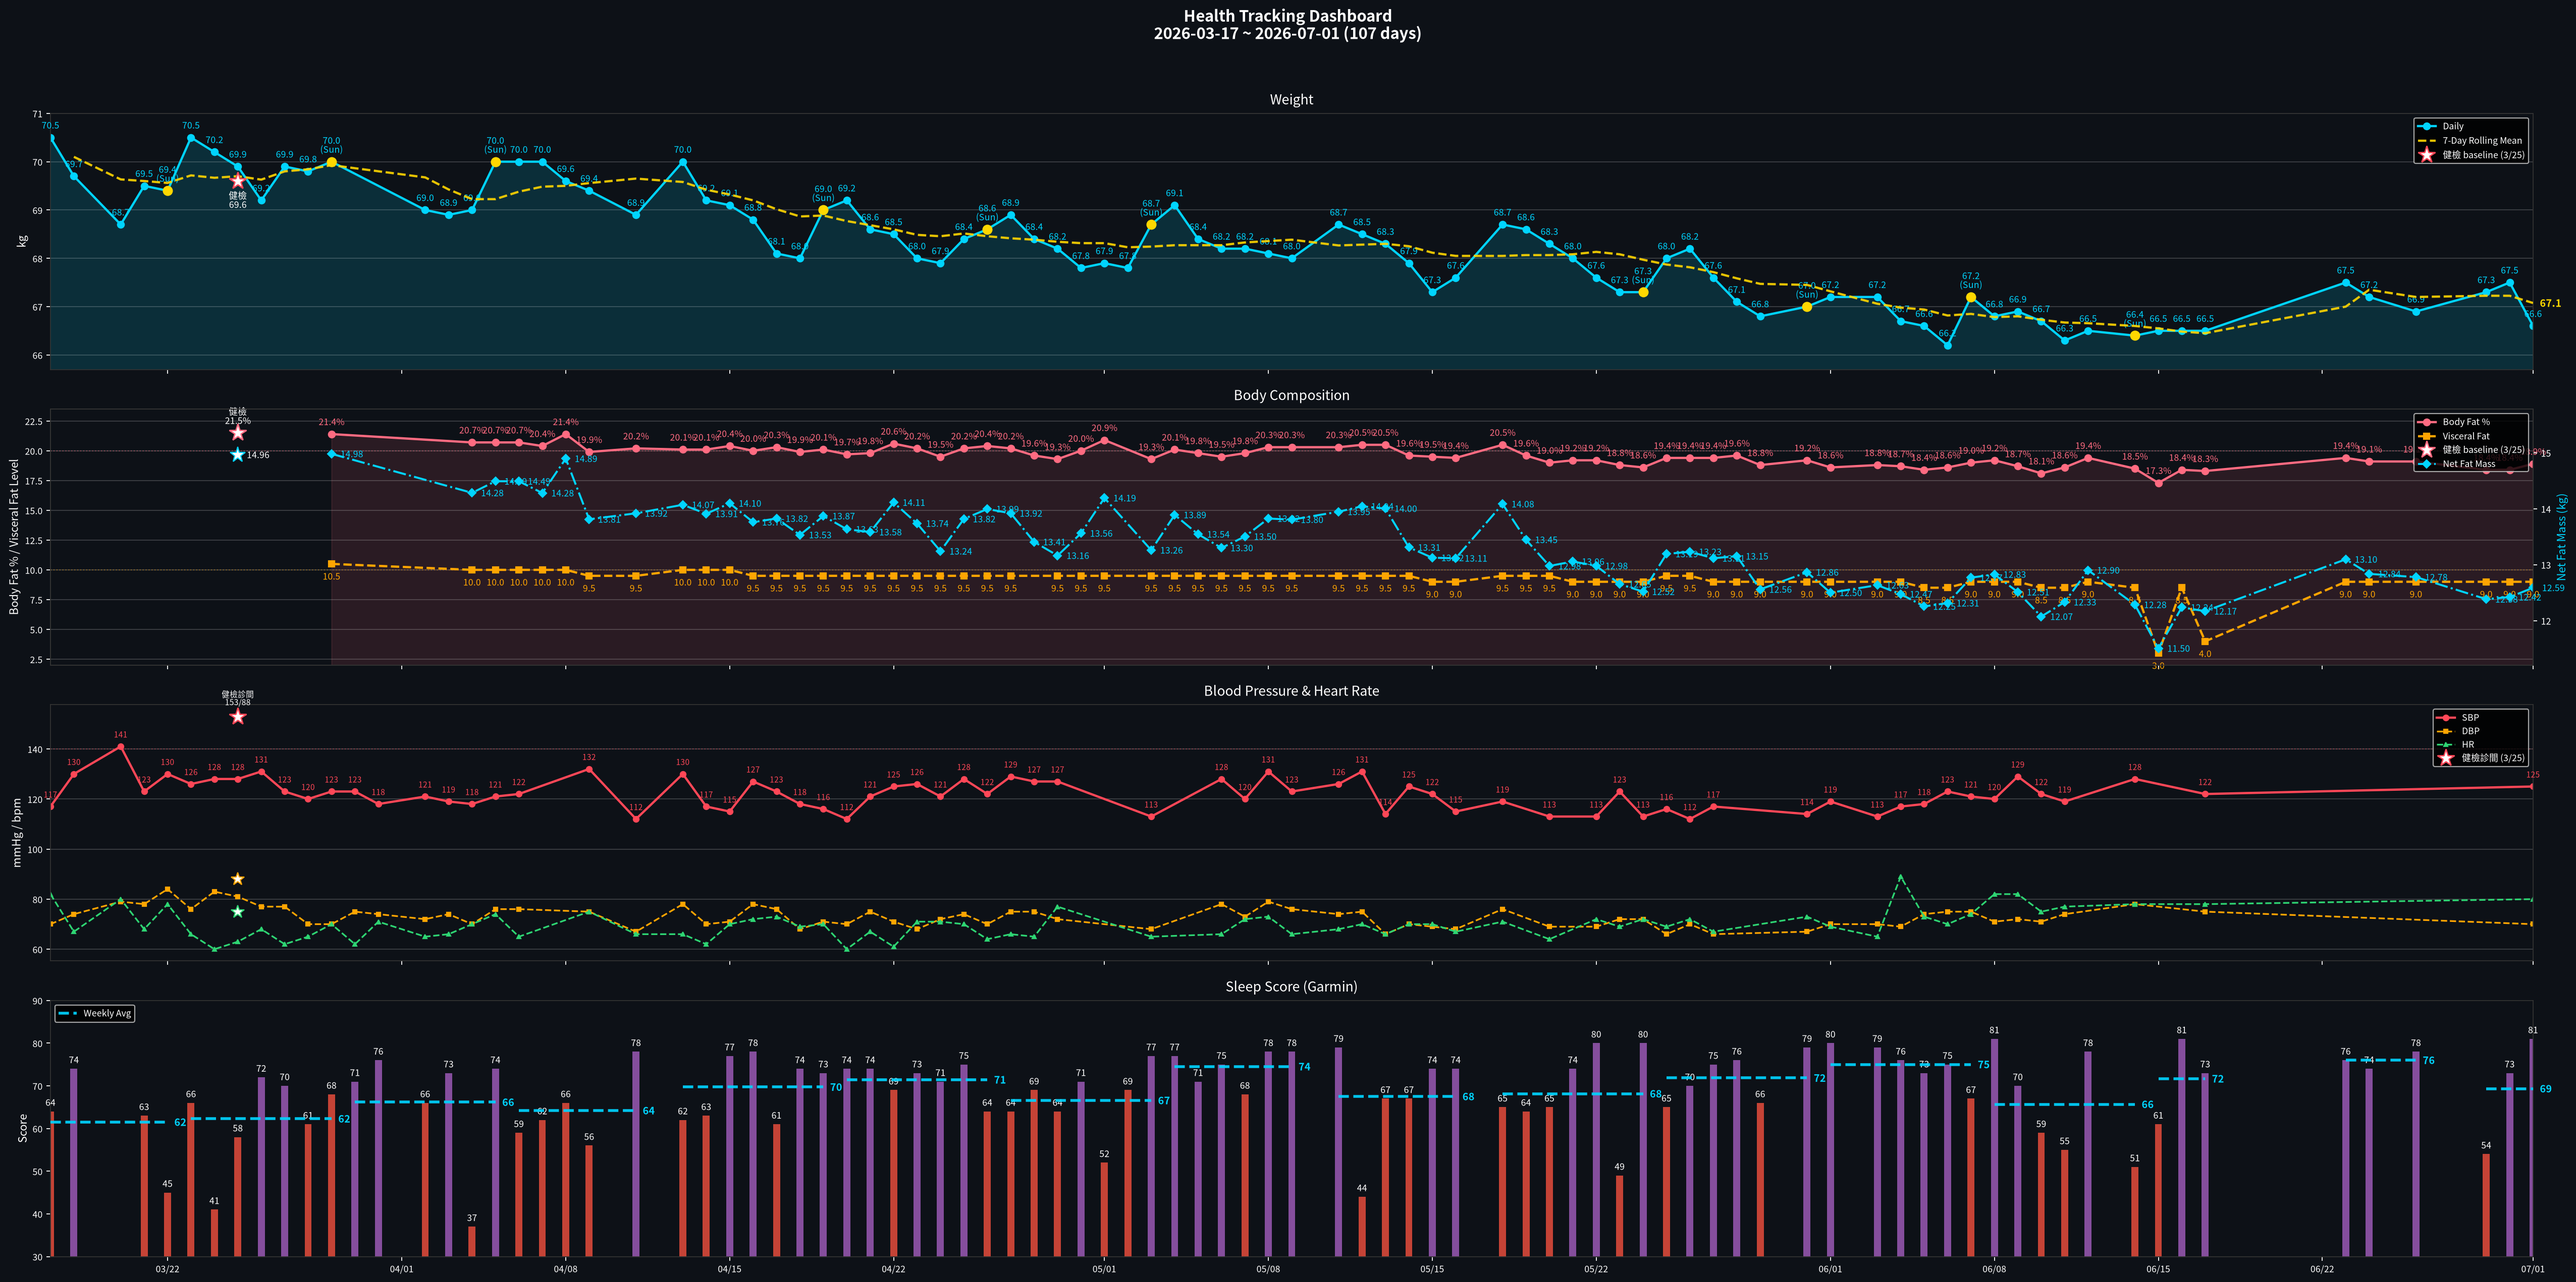
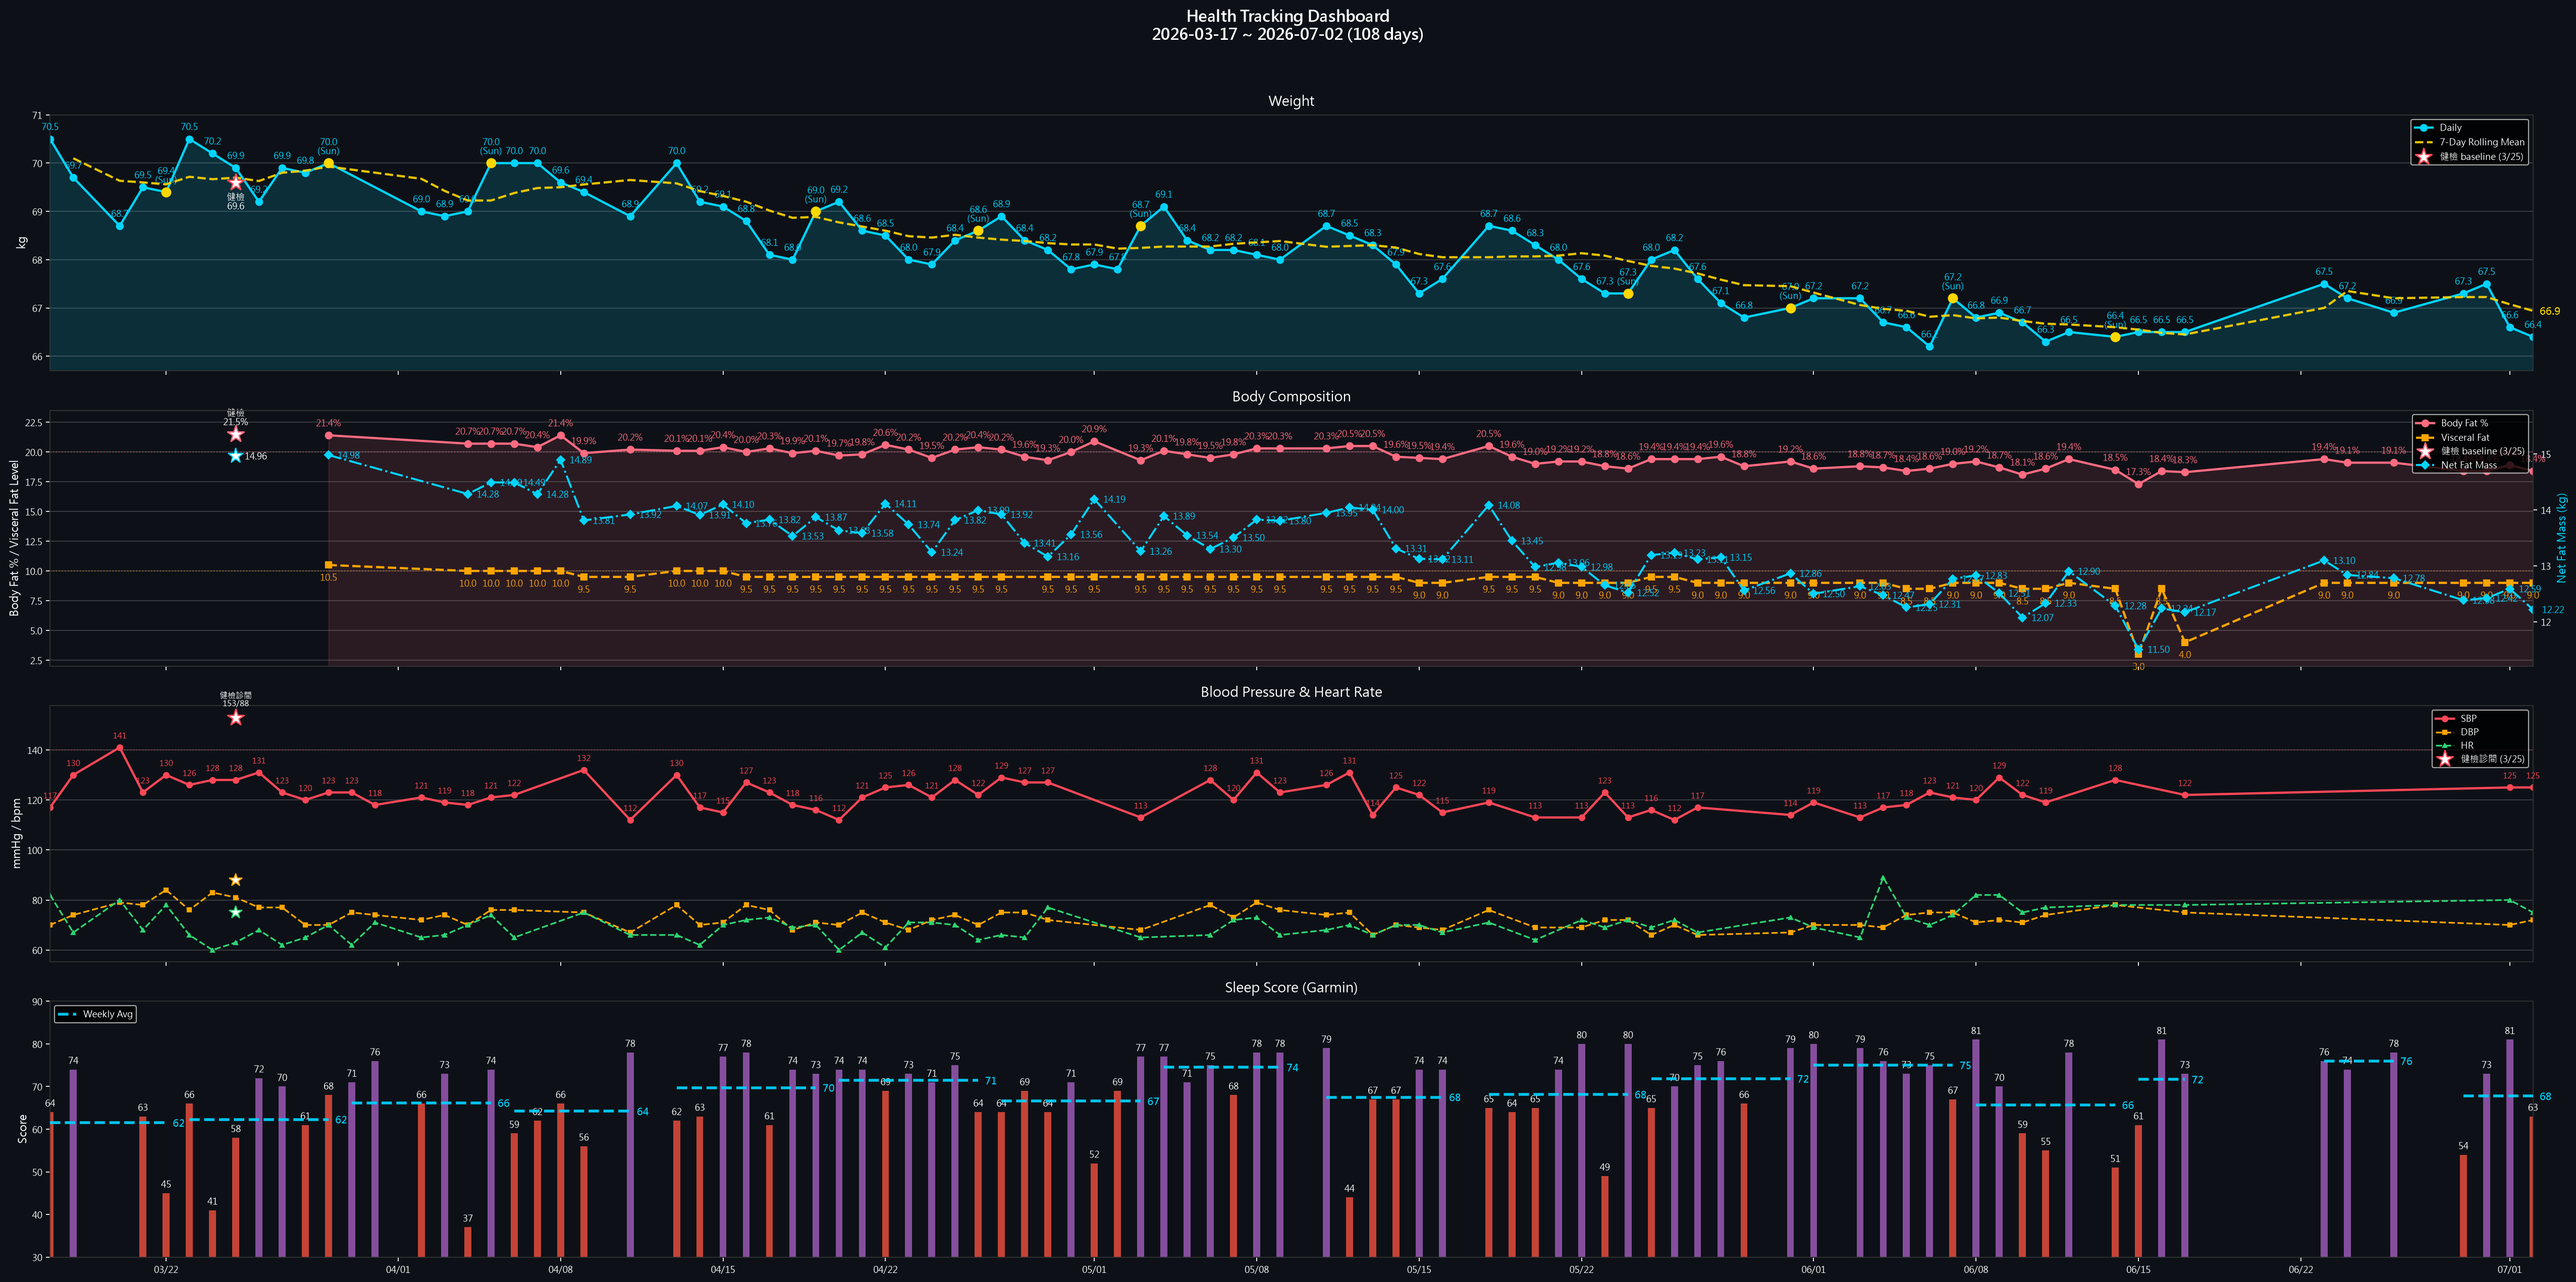
daily 2026-07-02：體重 66.4kg 體脂 18.4% / BP 125-72 / 睡眠 4h14m Score 63
- 昨夜睡眠僅 4h14m（22:15→02:34），Sleep Score 63、恢復感 3、無中途醒
- 昨日飲水 1.65L（<2.0L 警示）、Na/K 0.136 理想、步數 10,598
- 更新 weekly W27、dashboard、data.js

Claude-Session: https://claude.ai/code/session_01MhBbg327WCu9aomhyftvvB

diff --git a/data.js b/data.js
@@ -17,17 +17,17 @@ window.HC_DATA = {
     lede:    { en: "Sleep, BP, lipids, uric acid — one shared metabolic root. Lifestyle stacks first; medication only after lifestyle plateaus.",
                zh: "睡眠、血壓、血脂、尿酸——共享同一個代謝根源。生活方式介入優先，等到效果平台期再考慮藥物。" },
     progressLbl: { en: "Weight progress · 70 → 65 kg", zh: "體重進度 · 70 → 65 公斤" },
-    progressMeta: { en: "Day 107 · 66.2 kg · Sat official (6/6)", zh: "第 107 天 · 66.2 公斤 · 週六正式（6/6）" },
-    startDate: { en: "Start date · Mar 17, 2026 · Last sync 7/1", zh: "起始日期 · 2026 年 3 月 17 日 · 最後同步 7/1" },
+    progressMeta: { en: "Day 108 · 66.2 kg · Sat official (6/6)", zh: "第 108 天 · 66.2 公斤 · 週六正式（6/6）" },
+    startDate: { en: "Start date · Mar 17, 2026 · Last sync 7/2", zh: "起始日期 · 2026 年 3 月 17 日 · 最後同步 7/2" },
     startWeight: 70,
     targetWeight: 65,
     currentWeight: 66.2,
     currentWeightDate: "6/6 Sat official",
     // Body comp current actuals — latest daily reading (6/5). Manual for now:
     // sync_data_js.py does NOT yet populate these (only weight/BP/sleep). Update on daily check-in.
-    currentBodyFat: 18.9,
+    currentBodyFat: 18.4,
     currentVisceralFat: 9,
-    currentBodyCompDate: "7/1",
+    currentBodyCompDate: "7/2",
     // Waist = WHO midpoint (健檢-comparable; better VAT proxy than weight). Latest non-empty daily reading.
     currentWaist: 82,
     currentWaistDate: "6/9",
@@ -62,7 +62,7 @@ window.HC_DATA = {
     },
     {
       sys: "sleep", name: { en: "Sleep Score", zh: "睡眠分數" },
-      val: "81", unit: "Garmin",
+      val: "63", unit: "Garmin",
       delta: { en: "Sleep = behavioral/autonomic · OSA/hypoxia ruled out 6/29 (fingertip oximetry flat)", zh: "睡眠＝行為/自律神經 · OSA/缺氧已排除 6/29（指尖血氧整夜平穩）" },
       cadence: { en: "Daily · Garmin", zh: "每日 · Garmin" },
       status: "warn",
@@ -946,17 +946,17 @@ window.HC_DATA = {
   tracker: {
     // [SBP, DBP] — gaps filled with prior reading
     bp: [
-      [129,72], [122,71], [119,74], [119,74], [128,78], [128,78], [128,78], [122,75], [122,75], [122,75], [122,75], [122,75], [122,75], [125,70],
+      [122,71], [119,74], [119,74], [128,78], [128,78], [128,78], [122,75], [122,75], [122,75], [122,75], [122,75], [122,75], [125,70], [125,72],
     ],
     // daily weight (kg)
-    weight: [66.9, 66.7, 66.3, 66.5, 66.4, 66.5, 66.5, 66.5, 67.5, 67.2, 66.9, 67.3, 67.5, 66.6],
+    weight: [66.7, 66.3, 66.5, 66.4, 66.5, 66.5, 66.5, 67.5, 67.2, 66.9, 67.3, 67.5, 66.6, 66.4],
     // Garmin Sleep Score
-    sleep:  [70, 59, 55, 78, 51, 61, 81, 73, 76, 74, 78, 54, 73, 81],
+    sleep:  [59, 55, 78, 51, 61, 81, 73, 76, 74, 78, 54, 73, 81, 63],
     // Body Battery waking
-    bb:     [56, 37, 32, 54, 22, 27, 32, 35, 37, 40, 48, 45, 56, 66],
+    bb:     [37, 32, 54, 22, 27, 32, 35, 37, 40, 48, 45, 56, 66, 53],
     // SpO2 nightly nadir % (last 14 days, parallel to bp/weight/sleep/bb).
     // Earlier nights null until sync_data_js.py backfills; banner only uses trailing values.
-    spo2Nadir: [87, 87, 91, 88, null, 88, 86, 85, 94, 81, 93, 87, null, null],
+    spo2Nadir: [87, 91, 88, null, 88, 86, 85, 94, 81, 93, 87, null, null, null],
   },
 
   // ===== Running — started 2026-04-26 =====

diff --git a/reviews/daily/2026-07-02.md b/reviews/daily/2026-07-02.md
@@ -1,0 +1,99 @@
+# 晨間健康紀錄 — 2026-07-02
+
+*3 分鐘。起床後立即完成。記錄，不分析。*
+
+---
+
+## 體重 / 體組成
+
+**今日：66.4 kg**
+**體脂率：18.4 %**
+**內臟脂肪等級：9.0**
+**腰圍 (WHO midpoint)：[ ] cm**（最下肋骨下緣 + 髂嵴頂端兩點水平中點環繞，通常在肚臍上方 2-5 cm；**與健檢歷史可比**；目標維持 ≤ 83、推進至 < 80 cm）
+**腰圍 (最大腹圍)：[ ] cm**（自然站立、吐氣末、不收腹，軟尺上下移動找最大讀數；通常在肚臍 0 至 -4 cm；**對內臟脂肪變化最敏感**）
+
+**軀幹脂肪（輝葉八電極，主 KPI）：[ ] kg（[ ] %）**（Recomp 期導航指標；目標 6.7→6.0→4.8-5.0kg / ~120-130%。標準 80-160%）
+**除脂體重 LBM（護欄）：[ ] kg**（≥54kg 不可破；跌破=掉肌肉警訊）
+
+*每週六早晨為正式體重紀錄（排尿後、進食前；連 5 個工作日後、週末大餐前的真實低點）。其他日可選填。*
+*腰圍每日量（起床排尿後、進食前）。量兩個位置（WHO + max），方向應一致；若差距 > 3 cm 持續，考慮以 max 為主追蹤指標。*
+*WHO midpoint：科學標準，國健署 / 健檢 / metabolic syndrome 診斷用；最大腹圍：內臟脂肪 visceral fat correlation 最強。*
+*輝葉八電極（軀幹脂肪 / LBM / 分段）僅作趨勢追蹤，固定同台、看週/月、不解讀單次 0.1kg；體重/體脂率官方值仍以 Tanita 維持 data.js 連續性，兩台不混比絕對值（內臟 Tanita 8.5 ≠ 輝葉 4.0，刻度不同）。週六或有量到時填，平日可留空。*
+
+---
+
+## 血壓（晨間）
+
+*起床後 1 小時內，上完廁所、進食前。坐下安靜 5 分鐘，連量兩次取第二次。*
+
+| 次數 | 收縮壓 | 舒張壓 | 心率 |
+|------|--------|--------|------|
+| 第一次 | | | |
+| 第二次 | 125 | 72 | 75 |
+
+---
+
+## 睡眠狀態
+
+**Garmin 偵測入睡：** 22:15
+**實際上床：**
+**實際起床：** 02:34
+**中途醒來：** 無
+**Garmin Sleep Score：** 63 / 100
+**Garmin Body Battery 起床值：** 53
+**主觀恢復感：** 3 / 5（1=極度疲憊, 5=精力充沛）
+**入睡 latency：** —
+
+### SpO2 夜間數值（僅參考 — OSA 篩檢已撤回 2026-06-29）
+
+> ⚠ 指夾式（透射式）連續血氧證實整夜平穩、無掉氧；腕式 SpO2 掉氧為動作 artifact。以下僅留昨夜數值供趨勢參考,**不作 OSA 判讀、不觸發紅旗**。全夜圖表（hypnogram / Heatmap / 7 晚疊圖）已降為選跑,平日略過。
+
+**今晨最低 SpO2：** 88%（參考）
+**今晨日均 SpO2：** 96%
+
+*Sleep Score < 65 或 Body Battery < 50 連續三天 → 重新檢視睡眠修復方案。*
+
+---
+
+## 昨日回顧
+
+**實際飲水量：** 1.65 L（目標 ≥ 2.5L；高尿酸最佳 2.8–3.0L；17:00 前完成 60-70%）
+**昨日活動消耗：** 198 kcal（主動 + BMR；自動讀自 Garmin daily summary 活動區塊）
+  - > 300 kcal → 今日可彈性增加 200-300 kcal 攝取
+  - < 100 kcal → 今日加強運動（補一段 Zone 2 走路 30 分）
+**昨日 Na / K / Na-K ratio：** 147 mg / 1077 mg / 0.136（自動讀自 `scripts/analyze_nutrition.py --date YYYY-MM-DD`）
+  - Na/K < 0.5 ✅ / 0.5-0.6 🟢 / 0.6-0.8 🟡 / > 0.8 🟠（INTERSALT 1988）
+  - 連 3 天 ≥ 0.8 → 首選減鈉（自煮蛋取代茶葉蛋 −440 mg）或加 K（香蕉 +422 mg）
+
+---
+
+## 身體信號
+
+*任何張力、疼痛、疲勞、異常 — 或「清」。記位置、性質、強度。*
+
+| 部位 | 性質 | 強度 (0-10) |
+|------|------|-------------|
+| 清 | — | — |
+
+---
+
+## 今日計畫速記
+
+- [ ] 飲水目標：2.5 L（建議 2.5–3.0L；錨點 09:30 ≥1.0L / 13:30 ≥2.0L / 17:00 截止 2.5L）
+- [ ] 補充品（核心，2026-05-11 v2）：
+  - 早餐（06:00）：D3 2000 IU + **K2 MK-7 180 mcg** + **L-Citrulline 4 g** + 益生菌
+  - 午餐前 30 min：Psyllium 5 g + 350 mL 水
+  - 晚餐前 30 min：Psyllium 5 g + 350 mL 水
+  - 晚餐後：魚油 ×4（拆 18:30 ×2 + 19:30 ×2）
+  - 睡前（21:00）：鎂甘胺酸 400 mg + 酸櫻桃 1000-2000 mg + **Glycine 純粉 3 g**（起步 1.5 g × 3 晚）
+  - 茶飲：洛神花 ×2 杯（早 + 14:00 前）
+  - 食物層：南瓜籽 30 g（15:30）+ **菇蕈 100-130 g/天**（午 30-50 + 晚 50-80）
+  - ⏸ 待定：NAC 600 mg × 2（待 PSG 結果）
+- [ ] 運動（17:00 固定）：預設
+- [ ] 活動度/伸展（09:30 + 20:30 兩次錨點）：預設
+- [ ] Wind-down（20:00 燈光降 + 螢幕濾鏡，液體截止）
+- [ ] 上床 21:30 / 熄燈 22:00（TST 目標 7h+）
+
+---
+
+*Filed: reviews/daily/2026-07-02.md*

diff --git a/reviews/weekly/2026-W27.md b/reviews/weekly/2026-W27.md
@@ -41,9 +41,9 @@
 
 |  | 一 | 二 | 三 | 四 | 五 | 六 | 日 |
 |--|----|----|----|----|----|----|-----|
-| 體重 (kg) | 67.3 | 67.5 | 66.6 | | | | |
-| 體脂率 (%) | 18.4 | 18.4 | 18.9 | | | | |
-| 內臟脂肪 | 9.0 | 9.0 | 9.0 | | | | |
+| 體重 (kg) | 67.3 | 67.5 | 66.6 | 66.4 | | | |
+| 體脂率 (%) | 18.4 | 18.4 | 18.9 | 18.4 | | | |
+| 內臟脂肪 | 9.0 | 9.0 | 9.0 | 9.0 | | | |
 | **腰圍 WHO (cm)** | | | | | | | |
 | **腰圍 max (cm)** | | | | | | | |
 
@@ -64,7 +64,7 @@
 | 06-29 (一) | N/A | N/A | N/A |
 | 06-30 (二) | N/A | N/A | N/A |
 | 07-01 (三) | 125 | 70 | 80 |
-| 07-02 (四) | | | |
+| 07-02 (四) | 125 | 72 | 75 |
 | 07-03 (五) | | | |
 | 07-04 (六) | | | |
 | 07-05 (日) | | | |
@@ -82,7 +82,7 @@
 | 06-29 (一) | 02:09 | 06:00 | 無 | 54 | 45 | 2 |
 | 06-30 (二) | 21:53 | 03:45 | 無 | 73 | 56 | 3 |
 | 07-01 (三) | 21:19 | 05:06 | 無 | 81 | 66 | 3 |
-| 07-02 (四) | | | | | | |
+| 07-02 (四) | 22:15 | 02:34 | 無 | 63 | 53 | 3 |
 | 07-03 (五) | | | | | | |
 | 07-04 (六) | | | | | | |
 | 07-05 (日) | | | | | | |

diff --git a/reports/daily-garmin/2026-07-01.md b/reports/daily-garmin/2026-07-01.md
@@ -6,22 +6,31 @@
 - 深眠：62 分｜REM：96 分
 - Sleep Score：81
 - Body Battery 起床值：66
+- 估算上床：21:15｜入睡 latency：4 分
 
 ## 靜息心率
 - RHR：59.0 bpm
 
 ## 壓力
-- 日均：25
+- 日均：28
 
 ## 步數
-- 總計：3,019
+- 總計：10,598
 
 ## SpO2
-- 日均：96.0%
+- 日均：97.0%
 - 最低：90%
 
+## 活動
+| 時段 | 類型 | 距離 | 時長 | 平均 HR | 最大 HR | 主動 kcal | 含 BMR |
+|------|------|------|------|---------|---------|-----------|--------|
+| 08:59 | cycling | 1.16 km | 13.5 min | 115 | 142 | 71 | 89 |
+| 12:24 | walking | 1.53 km | 16.4 min | 123 | 144 | 87 | 109 |
+| **小計** | 2 段 | **2.69 km** | **30.0 min** | — | — | **158** | **198** |
+
 ## 飲水
-- 實際：— （Garmin Connect 未紀錄，請於 check-in 手動輸入）
-- 目標：2.00 L
+- 實際：1.65 L
+- 目標：2.47 L
+- 運動流汗耗水：0.47 L
 
 _Source: data/garmin/2026-07-01.json (gitignored)_

diff --git a/reports/daily-garmin/2026-07-02.md b/reports/daily-garmin/2026-07-02.md
@@ -1,0 +1,33 @@
+# Garmin 每日摘要 — 2026-07-02
+
+## 睡眠
+- 就寢：22:15｜起床：02:34
+- 總時長：4h 14m
+- 深眠：87 分｜REM：28 分
+- Sleep Score：63
+- Body Battery 起床值：53
+
+## 靜息心率
+- RHR：58.0 bpm
+
+## 壓力
+- 日均：31
+
+## 步數
+- 總計：3,637
+
+## SpO2
+- 日均：96.0%
+- 最低：88%
+
+## 活動
+| 時段 | 類型 | 距離 | 時長 | 平均 HR | 最大 HR | 主動 kcal | 含 BMR |
+|------|------|------|------|---------|---------|-----------|--------|
+| 08:58 | cycling | 1.05 km | 5.3 min | 146 | 161 | 43 | 50 |
+
+## 飲水
+- 實際：0.60 L
+- 目標：2.09 L
+- 運動流汗耗水：0.09 L
+
+_Source: data/garmin/2026-07-02.json (gitignored)_
